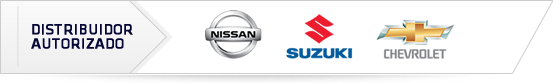
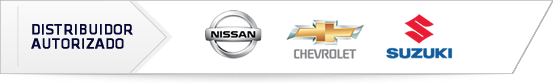
all changes

diff --git a/sites/all/themes/basic/css/yaquemotors.css b/sites/all/themes/basic/css/yaquemotors.css
@@ -31,7 +31,7 @@ root {
 
 
 /*pre-header */
-#appoiment-text,#global-search
+#appointment-text,#global-search
 {
     float: right;
 }
@@ -40,9 +40,14 @@ root {
     border: 3px solid #e5e5e5;
     height: 23px;
 }
-#appoiment-text
+#appointment-text
 {
+    color: #333333;
+    display: block;
+    font-weight: bold;
+    height: 26px;
     margin-right: 50px;
+    
     position: relative;
     
 }
@@ -80,6 +85,7 @@ root {
     float: left;
     margin-right: 20px;
     font-weight: bold;
+    
 }
 
 #vehicles-agency
@@ -112,6 +118,7 @@ root {
         padding-top: 34px;
         width: 418px;
         position: relative;
+        text-transform: uppercase;
 }
 
 
@@ -521,6 +528,7 @@ li a.active
 {
     width: 61px;
     height: 47px;
+    margin: 5px 5px 0 0;
 }
 /*Slideshow ENDS*/
 
@@ -656,6 +664,7 @@ li a.active
     padding: 15px;
     color: #cccccc;
     position: relative;
+    margin-top: 20px;
 }
 
 #footer-logo
@@ -711,6 +720,29 @@ li a.active
     
 }
 
+#front-page-slideshow-pager
+{
+    position: absolute;
+    top: 350px;
+    left: 50px;
+}
+#front-page-slideshow-pager span
+{
+    display: block;
+    width: 13px;
+    height: 13px;
+    float: left;
+    cursor: pointer;
+     background-image: url('/sites/default/files/images/frontPageSlideshow/unselectedPager.png');
+    
+}
+
+
+#front-page-slideshow-pager span.activeSlide
+{
+     background-image: url('/sites/default/files/images/frontPageSlideshow/selectedPager.png');
+}
+
 .front-page-slides
 {
     width: 960px;
@@ -722,7 +754,7 @@ li a.active
     position: relative;
 }
 
-#front-page-slideshow-next-previous, #front-page-slideshow-view-more
+#front-page-slideshow-pager , #front-page-slideshow-view-more
 {
     position: absolute;
     z-index: 1000;
@@ -857,6 +889,13 @@ li a.active
 #workshop-services-link
 {
     float: left;
+    margin: 0 27px 0 15px;
+}
+
+#workshop-services-link img
+{
+    height: 178px;
+    width: 280px;
 }
 #workshop-services-link p
 {
@@ -1101,6 +1140,7 @@ li a.active
 #vehicles-for-the-company
 {
     float: left;
+    margin: 0 14px;
 }
 #vehicles-for-the-company p
 {
@@ -1134,7 +1174,9 @@ li a.active
 #post-sell
 {
     height: 500px;
+    
     margin-top: 40px;
+    padding: 0 40px;
 }
 #post-sell .post-sell-divisor{
     float: left;
@@ -1156,12 +1198,11 @@ li a.active
 {
     
     
-      
-       background-image: url('/sites/default/files/images/postSell/sprite.jpg');
+     background-image: url('/sites/default/files/images/postSell/sprite.png');
+    background-position: 419px -9px;
     display: block;
-    height: 280px;
-    width: 408px;
-      background-position: 410px 0;
+    height: 292px;
+    width: 420px;
      
 }
 
@@ -1180,16 +1221,18 @@ li a.active
 
 #post-sell-workshop-services
 {
+    margin-right: 60px;
     width: 408px;
-    margin-left: 40px;
+    
 }
 
 #post-sell-workshop-services-photo
 {
-    background-image: url('/sites/default/files/images/postSell/sprite.jpg');
+    background-image: url('/sites/default/files/images/postSell/sprite.png');
+    background-position: -10px -9px;
     display: block;
-    height: 280px;
-    width: 408px;
+    height: 292px;
+    width: 420px;
   
 }
 
@@ -1324,22 +1367,30 @@ li a.active
 {
      background-image: url('/sites/default/files/images/maintenanceFinder/maintenanceFinderBackground.gif');
      color: white;
-     font-weight: bold;
+     
      float: left;
-     height: 218px;
-     margin-left: 15px;
-     margin-right: 25px;
-     padding-left: 10px;
-     padding-top: 10px;
-     width: 261px;
+     font-weight: bold;
+     height: 213px;
+     margin-left: 27px;
+     margin-right: 15px;
+     padding-left: 15px;
+     padding-top: 15px;
+     width: 256px;
 }
 
+#maintenance-finder h2{
+    font-size: 2em;
+    font-weight: bold;
+    line-height: 21px;
+    margin-bottom: 20px;
+}
 
 
 #maintenance-finder h2 span
 {
-    font-size: 0.8em;
+    font-size: 0.7em;
     font-weight: normal;
+    
 }
 #maintenance-finder label, #maintenance-finder select
 {
@@ -1357,7 +1408,7 @@ li a.active
 #maintenance-finder select
 {
     width: 140px;
-    margin-bottom: 10px;
+    margin-bottom: 15px;
 }
 
 #maintenance-finder-find-button

diff --git a/sites/all/themes/basic/js/yaquemotors.js b/sites/all/themes/basic/js/yaquemotors.js
@@ -6,9 +6,11 @@ initializeSlideshows = function()
                 options:{
                     fx:     'fade', 
                     speed:  'fast', 
-                    timeout: 3000, 
-                    next: '#front-page-slideshow-next',
-                    prev: '#front-page-slideshow-previous',
+                    timeout: 3000,
+                    pager: '#front-page-slideshow-pager',
+                   pagerAnchorBuilder: function(idx, slide){
+                        return '#front-page-slideshow-pager span:eq('+idx+')';
+                    },
                     cleartype: true,
                     cleartypeNoBg: true,
                     pagerEvent:    'click'                   
@@ -17,7 +19,7 @@ initializeSlideshows = function()
             news: {
                 selector: '#news-container',
                 options:{
-                    fx:     'scrollUp', 
+                    fx:     'scrollRight', 
                     speed:  'fast', 
                     timeout: 3000,                 
                     cleartype: true,

diff --git a/includes/blocks/vehicleAgency.php b/includes/blocks/vehicleAgency.php
@@ -21,8 +21,9 @@
             <a  class="filter-brand-modifier-button <?php echo !isset($_GET['marca']) || $_GET['marca']  == 'nissan' || $_GET['marca'] == 'todas'? 'selected-brand' : ''; ?>" id="vehicles-agency-nissan-button" value="nissan"   ></a>
 
 
-            <a  class="filter-brand-modifier-button <?php echo (isset($_GET['marca']) && $_GET['marca'] == 'suzuki') || $_GET['marca'] == 'todas' ? 'selected-brand' : ''; ?>" id="vehicles-agency-suzuki-button" value="suzuki"  ></a>
+            
             <a  class="filter-brand-modifier-button <?php echo (isset($_GET['marca']) && $_GET['marca'] == 'chevrolet') || $_GET['marca'] == 'todas' ? 'selected-brand' : ''; ?> " id="vehicles-agency-chevrolet-button"  value="chevrolet" ></a>
+            <a  class="filter-brand-modifier-button <?php echo (isset($_GET['marca']) && $_GET['marca'] == 'suzuki') || $_GET['marca'] == 'todas' ? 'selected-brand' : ''; ?>" id="vehicles-agency-suzuki-button" value="suzuki"  ></a>
 
 
             
@@ -31,8 +32,8 @@
         </div>
 
 <a class="filter-brand-modifier-button" id="vehicles-agency-all-brands" value="todas" >TODAS LAS MARCAS</a>
-        <a id="vehicles-agency-make-appointment"></a>
-        <a id="vehicles-agency-parts" href="/tienda-de-repuestos"></a>
+        <a href="/citas" id="vehicles-agency-make-appointment"></a>
+        <a href="/tienda-de-repuestos" id="vehicles-agency-parts" href="/tienda-de-repuestos"></a>
     </div>
 
     <?php require dirname(__FILE__).'/bigVerticalDivisor.php';?>

diff --git a/includes/blocks/postSell.php b/includes/blocks/postSell.php
@@ -1,5 +1,11 @@
 <?php require dirname(__FILE__).'/../paths.php';?>
 <div id="post-sell">
+    
+    
+    <h1>POST-VENTA</h1>
+    <p>
+        Lorem ipsum dolor sit amet, consectetur adipiscing elit. Morbi pretium, erat quis condimentum accumsan, sem eros scelerisque lorem, sit amet tincidunt augue tellus nec ligula.
+    </p>
     <div id="post-sell-workshop-services">
         <a id="post-sell-workshop-services-title" href="/taller-de-servicios">TALLER DE SERVICIOS<img class="post-sell-white-arrow" src="<?php echo $paths->images;?>/common/whiteArrow.png"/></a>
         <a id="post-sell-workshop-services-photo" href="/taller-de-servicios"></a>
@@ -10,13 +16,7 @@
 
 
 
-    <div id="post-sell-workshop-services-divisor" class="post-sell-divisor">
-        <?php require dirname(__FILE__) . '/bigVerticalDivisor.php'; ?>
-    </div>
-    
-    <div class="post-sell-divisor">
-        <?php require dirname(__FILE__) . '/bigVerticalDivisor.php'; ?>
-    </div>
+   
     
     <div id="post-sell-workshop-parts-store">
 

diff --git a/includes/blocks/partsStore.php b/includes/blocks/partsStore.php
@@ -2,8 +2,8 @@
 <div id="parts-store">
 
     <div id="parts-store-left-menu">
-        <a id="parts-store-left-menu-appointment" class="parts-store-left-menu-button"></a>
-        <a id="parts-store-left-menu-offers" class="parts-store-left-menu-button"></a>
+        <a href="/citas" id="parts-store-left-menu-appointment" class="parts-store-left-menu-button"></a>
+        <a  id="parts-store-left-menu-offers" class="parts-store-left-menu-button"></a>
     </div>
     <?php require dirname(__FILE__) . '/bigVerticalDivisor.php'; ?>
     <div id="parts-store-text-container">
@@ -65,7 +65,7 @@
 
             </div>
 
-            <a id="part-store-form-clean" class="form-button">Limiar Formulario</a>
+            <a id="part-store-form-clean" class="form-button">Limpiar Formulario</a>
             <a id="part-store-form-send" class="form-button">Enviar</a>
         </div>
     </div>

diff --git a/sites/all/themes/basic/templates/page.tpl.php b/sites/all/themes/basic/templates/page.tpl.php
@@ -27,9 +27,9 @@
 
             <!-- ______________________ HEADER _______________________ -->
             <div id="pre-header">
-                <img id="search-icon" alt="foto-lupa-buscar" src="/<?php echo file_directory_path(); ?>/images/theme/searchIcon.png"/>
-                <input id="global-search"type="text" />
-                <p id="appoiment-text">Hacer una cita <img id="top-calendar" alt="foto-calendario" src="/<?php echo file_directory_path(); ?>/images/theme/topCalendar.png"/></p>
+                
+                
+                <a href="/citas" id="appointment-text">Hacer una cita <img id="top-calendar" alt="foto-calendario" src="/<?php echo file_directory_path(); ?>/images/theme/topCalendar.png"/></a>
 
             </div>
             <div id="header">

diff --git a/sites/all/themes/basic/templates/node-front_page_slideshow.tpl.php b/sites/all/themes/basic/templates/node-front_page_slideshow.tpl.php
@@ -1,6 +1,6 @@
 <?php
 $slidesInfo = $node->field_front_page_slides;
-
+$slidesNumber = count($slidesInfo);
 
 
 ?>
@@ -28,9 +28,10 @@ $slidesInfo = $node->field_front_page_slides;
         
 
     </div>
-    <div id="front-page-slideshow-next-previous"> 
-        <img id="front-page-slideshow-next" src="/<?php echo file_directory_path();?>/images/frontPageSlideshow/previousArrow.png"/>
-        <img id="front-page-slideshow-previous" src="/<?php echo file_directory_path();?>/images/frontPageSlideshow/nextArrow.png"/>
+    <div id="front-page-slideshow-pager"> 
+        <?php for($i=0; $i < $slidesNumber; $i++):?>
+            <span class="front-page-slideshow-pager-item"></span>
+        <?php endfor;?>        
     </div>
     
     

diff --git a/includes/blocks/contactsInfo.php b/includes/blocks/contactsInfo.php
@@ -28,7 +28,7 @@
     <a class="contacts-redcorenered-button">Vendedores de Repuestos <img src="<?php echo $paths->images;?>/common/whiteArrow.png"/></a>
     <a class="contacts-redcorenered-button">Vendedores de Repuestos <img src="<?php echo $paths->images;?>/common/whiteArrow.png"/></a>
     
-    <a id="contacts-info-offer" href="#"><img src="<?php echo $paths->images;?>/contacts/offersLink.png"/></a>
+    <a id="contacts-info-offer" href="#"><img src="<?php echo $paths->images;?>/common/offersLink.png"/></a>
 
     
        

diff --git a/includes/blocks/workshopServicesForm.php b/includes/blocks/workshopServicesForm.php
@@ -24,6 +24,8 @@
     <?php
         $viewData['containerId'] = 'workshop-services-warranty-campaign-link';
         $viewData['photoPath'] = $paths->images.'/workshopServicesForm/warrantyCampaign.png';
+        
+        $viewData['hrefPath'] = '/vehiculos-con-garantia' ;
     ?>
     
     <?php require dirname(__FILE__).'/../views/imageLinkView.php';?>
